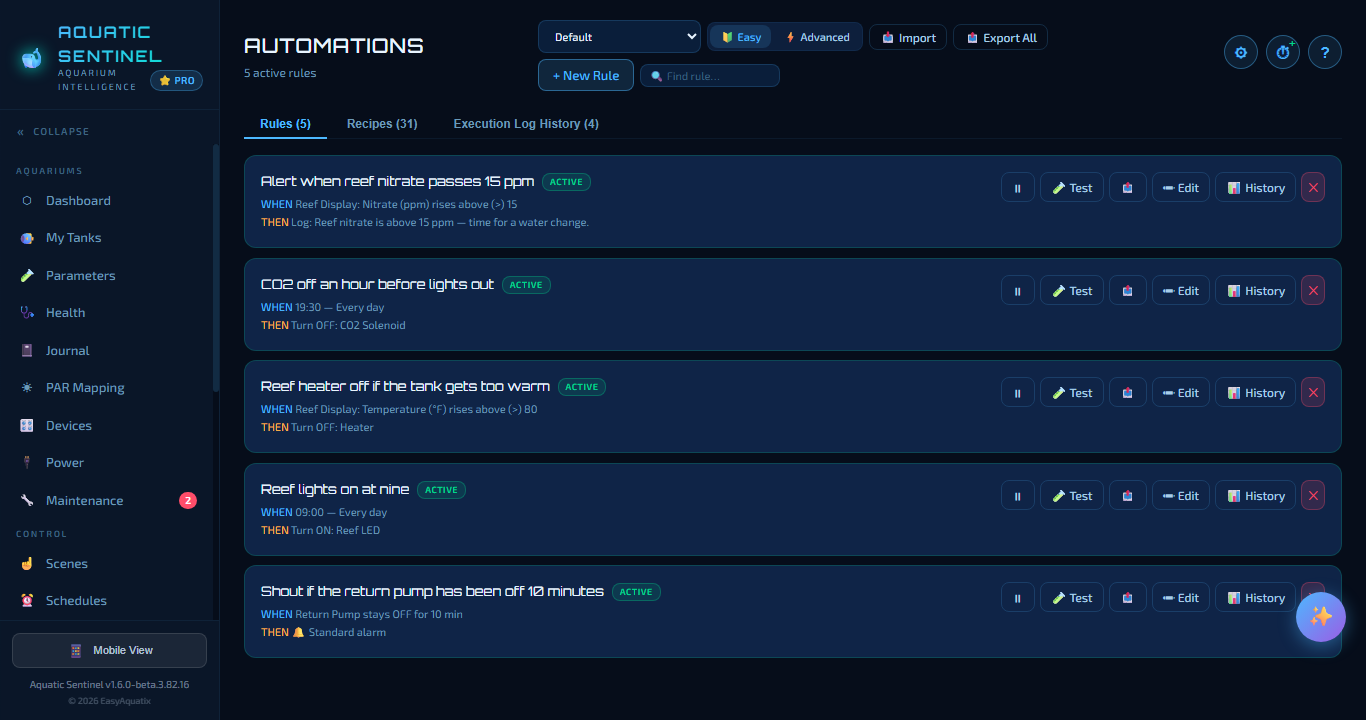
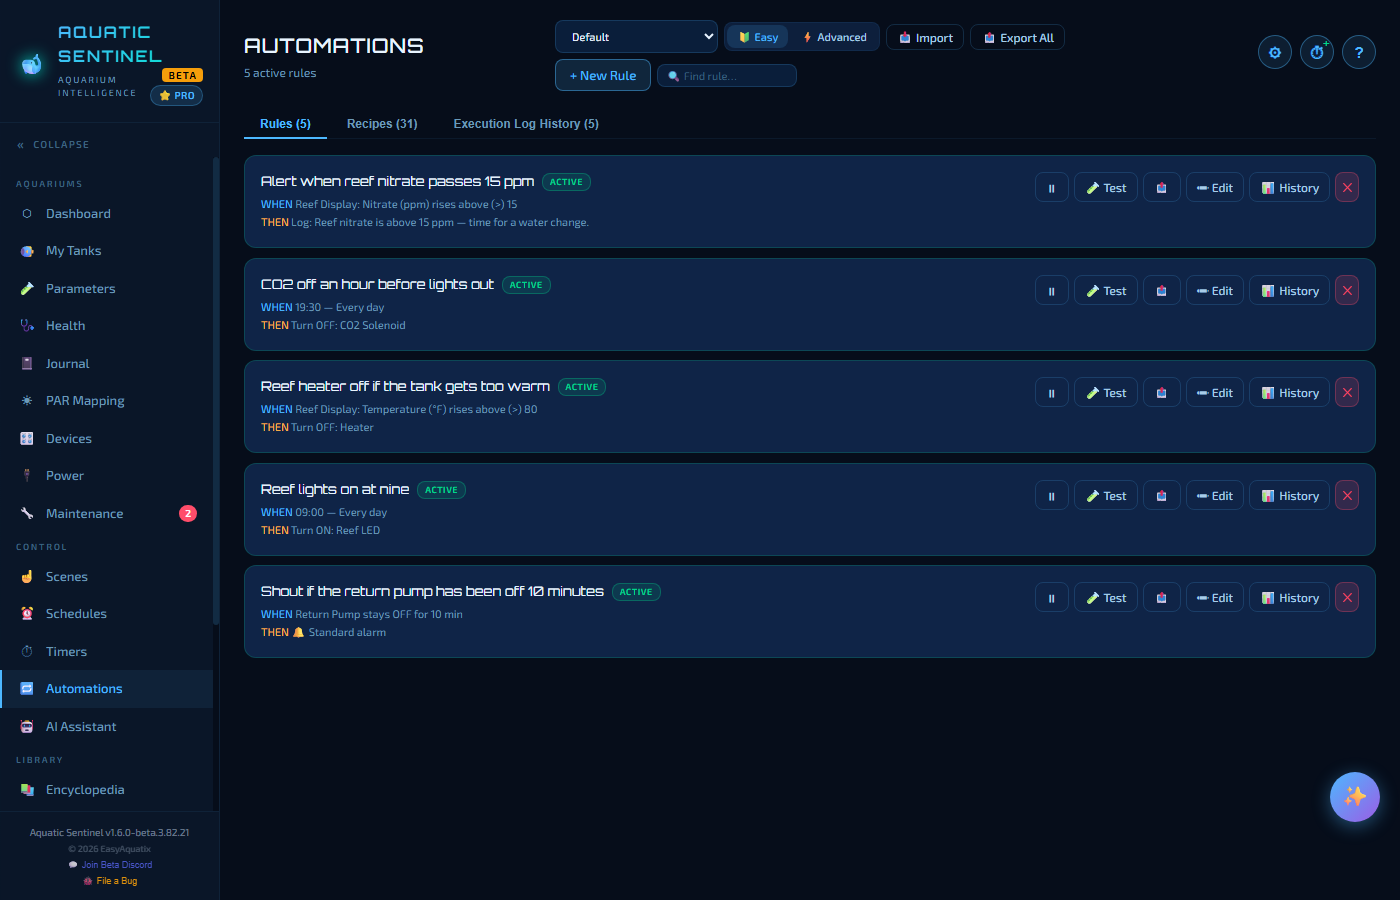
docs: 3.82.21 screenshots from the synthetic demo database
Refreshes the public set (01-05, 07-11) and adds screenshots/3.82.21/ for the
new features: ammonia early warning, Sentia doser, File a Bug, Layout, remote
pairing, Android phone layout. All captured from a demo database with invented
tanks and devices. 06-mytanks.png is left as it was.

diff --git a/README.md b/README.md
@@ -34,6 +34,8 @@ All **Pro features are unlocked free** during the beta period. The app installs 
 
 ![Automation Rules](screenshots/04-automations.png)
 
+![Ammonia early warning](screenshots/3.82.21/ammonia-risk-card.png)
+
 *More screenshots on the [latest release page](https://github.com/Aquaman-TSH/aquasentinel-releases/releases/).*
 
 ## System requirements
